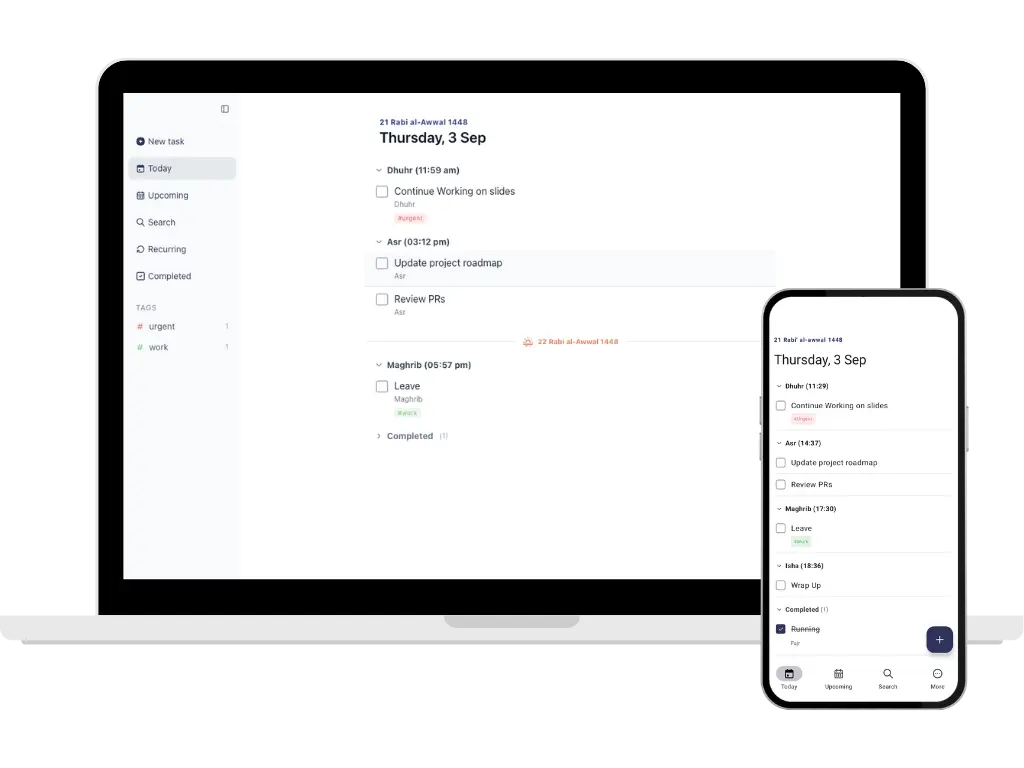
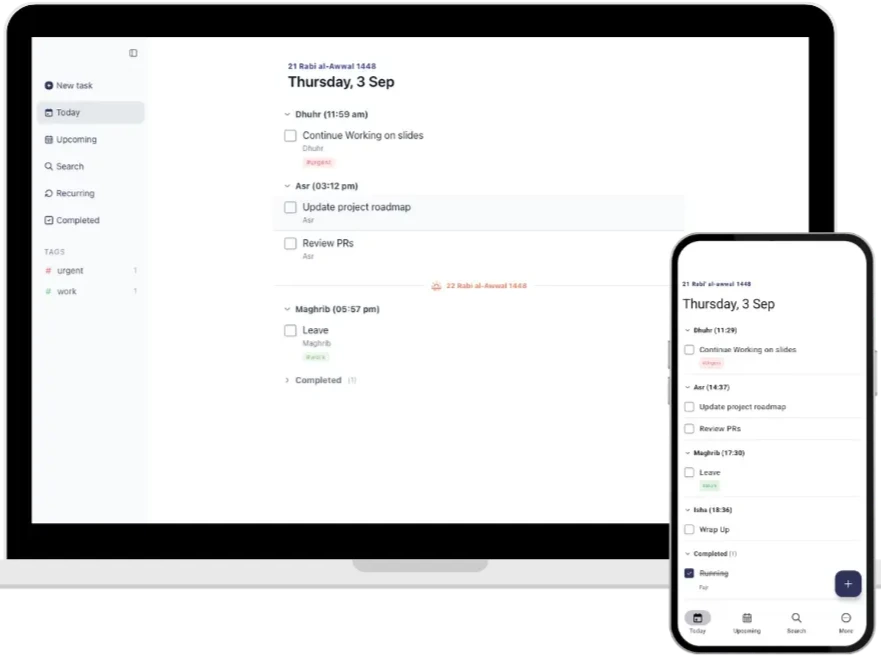
ui tweaks

Changed region(s): [[0.0, 0.0, 1.0, 1.0], [0.3065, 0.4552, 0.4597, 0.607], [0.4904, 0.4249, 0.6129, 0.4552]]

diff --git a/packages/website/src/components/Features.tsx b/packages/website/src/components/Features.tsx
@@ -79,7 +79,7 @@ export default function Features({ currentLang = "en" }: { currentLang?: string 
         <div className="grid sm:grid-cols-2 gap-4 sm:gap-6">
           {t.features.map((feature, index) => (
             <div key={index} className="group">
-              <div className="bg-gray-50 dark:bg-gray-800 rounded-2xl p-6 sm:p-8 h-full border border-gray-200 dark:border-gray-700 hover:border-primary-300 dark:hover:border-primary-600 transition-all duration-300 hover:shadow-lg">
+              <div className="dark:bg-gray-800 rounded-2xl p-6 sm:p-8 h-full border border-gray-200 dark:border-gray-700 hover:border-primary-300 dark:hover:border-primary-600 transition-all duration-300 hover:shadow-lg">
                 {/* Icon & Title */}
                 <div className="flex items-center gap-3 sm:gap-4 mb-4 sm:mb-6">
                   <div className="w-12 h-12 sm:w-12 sm:h-12 bg-primary-100 dark:bg-primary-900 rounded-xl flex items-center justify-center flex-shrink-0 group-hover:scale-110 transition-transform">
